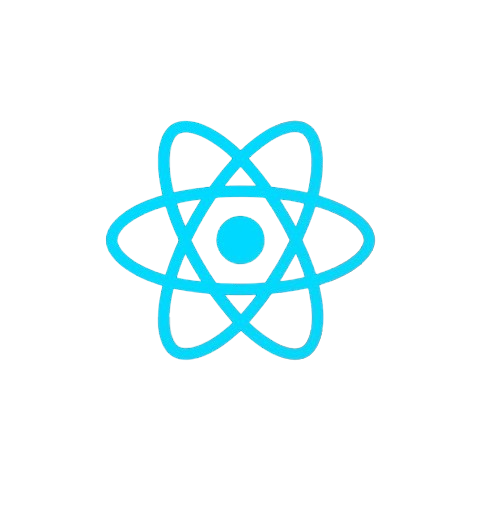
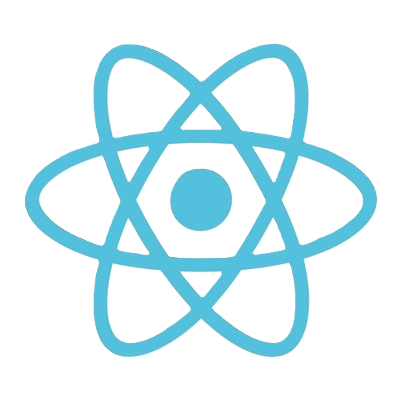
Update Home-Hero Section -- Responsive for mobile

Changed region(s): [[0.06, 0.09, 0.96, 0.9]]

diff --git a/src/components/MyComponent/home-hero.tsx b/src/components/MyComponent/home-hero.tsx
@@ -32,25 +32,25 @@ const HomeHero = () => {
 	return (
 		<>
 			<div className="md:min-h-screen lg:pl-28 flex items-end md:items-center justify-center py-6">
-				<div className="md:h-full flex flex-col items-center md:items-start justify-center">
+				<div className="md:h-full flex flex-col items-center md:items-start justify-end md:justify-center">
 					<h1
-						className={`${russo_one.className} text-[5vmin] lg:text-[7vmin] leading-20`}
+						className={`${russo_one.className} text-[5vmin] lg:text-[7vmin] leading-8`}
 					>
 						Hi, <span className="text-red-800">I Am</span>
 					</h1>
 					<h1
-						className={`${russo_one.className} text-[9vmin] lg:text-[9vmin] leading-[7vmin] 
+						className={`${russo_one.className} text-[9vmin] lg:text-[9vmin] leading-[7.5vmin] 
               bg-gradient-to-r from-purple-700 to-red-700 bg-clip-text text-transparent text-center md:text-start`}
 					>
 						YASH KUMAR HALDER
 					</h1>
 					<h1
-						className={`${russo_one.className} text-[4vmin] lg:text-[4vmin] text-muted-foreground leading-[4vmin] `}
+						className={`${russo_one.className} text-[4vmin] lg:text-[4vmin] text-muted-foreground leading-[4vmin] mt-3 md:mt-0 `}
 					>
 						Full Stack Developer || MERN Stack
 					</h1>
-					<div className="w-[50%] h-12 mt-4 rounded-sm flex items-center justify-around">
-						<div className="flex items-center gap-1 bg-gray-600/20 border border-transparent hover:border-gray-500 px-4 py-2 rounded-sm hover:scale-105 cursor-pointer transition-all duration-150">
+					<div className="w-[90%] md:w-[50%] h-12 md:mt-4 rounded-sm flex items-center justify-center md:justify-around gap-2 md:gap-3 ">
+						<div className="flex items-center gap-1 bg-gray-600/20 border border-transparent hover:border-gray-500 px-3 md:px-4 py-0.5 md:py-2 rounded-sm hover:scale-105 cursor-pointer transition-all duration-150">
 							<svg
 								xmlns="http://www.w3.org/2000/svg"
 								x="0px"
@@ -58,6 +58,7 @@ const HomeHero = () => {
 								width="30"
 								height="30"
 								viewBox="0 0 48 48"
+								className="h-5 w-fit md:h-6"
 							>
 								<path
 									fill="#0078d4"
@@ -76,9 +77,11 @@ const HomeHero = () => {
 									d="M12,19h5v17h-5V19z M14.485,17h-0.028C12.965,17,12,15.888,12,14.499C12,13.08,12.995,12,14.514,12	c1.521,0,2.458,1.08,2.486,2.499C17,15.887,16.035,17,14.485,17z M36,36h-5v-9.099c0-2.198-1.225-3.698-3.192-3.698	c-1.501,0-2.313,1.012-2.707,1.99C24.957,25.543,25,26.511,25,27v9h-5V19h5v2.616C25.721,20.5,26.85,19,29.738,19	c3.578,0,6.261,2.25,6.261,7.274L36,36L36,36z"
 								></path>
 							</svg>
-							<h3>LINKEDIN</h3>
+							<h3 className="text-[10px] md:text-base">
+								LINKEDIN
+							</h3>
 						</div>
-						<div className="flex items-center gap-1 bg-gray-600/20 border border-transparent hover:border-gray-500 px-4 py-2 rounded-sm hover:scale-105 cursor-pointer transition-all duration-150">
+						<div className="flex items-center gap-1 bg-gray-600/20 border border-transparent hover:border-gray-500 px-3 md:px-4 py-0.5 md:py-2 rounded-sm hover:scale-105 cursor-pointer transition-all duration-150">
 							<svg
 								xmlns="http://www.w3.org/2000/svg"
 								x="0px"
@@ -86,19 +89,19 @@ const HomeHero = () => {
 								width="30"
 								height="30"
 								viewBox="0 0 64 64"
-								className=" dark:fill-white"
+								className=" dark:fill-white h-5 md:h-6 w-fit"
 							>
 								<path d="M32 6C17.641 6 6 17.641 6 32c0 12.277 8.512 22.56 19.955 25.286-.592-.141-1.179-.299-1.755-.479V50.85c0 0-.975.325-2.275.325-3.637 0-5.148-3.245-5.525-4.875-.229-.993-.827-1.934-1.469-2.509-.767-.684-1.126-.686-1.131-.92-.01-.491.658-.471.975-.471 1.625 0 2.857 1.729 3.429 2.623 1.417 2.207 2.938 2.577 3.721 2.577.975 0 1.817-.146 2.397-.426.268-1.888 1.108-3.57 2.478-4.774-6.097-1.219-10.4-4.716-10.4-10.4 0-2.928 1.175-5.619 3.133-7.792C19.333 23.641 19 22.494 19 20.625c0-1.235.086-2.751.65-4.225 0 0 3.708.026 7.205 3.338C28.469 19.268 30.196 19 32 19s3.531.268 5.145.738c3.497-3.312 7.205-3.338 7.205-3.338.567 1.474.65 2.99.65 4.225 0 2.015-.268 3.19-.432 3.697C46.466 26.475 47.6 29.124 47.6 32c0 5.684-4.303 9.181-10.4 10.4 1.628 1.43 2.6 3.513 2.6 5.85v8.557c-.576.181-1.162.338-1.755.479C49.488 54.56 58 44.277 58 32 58 17.641 46.359 6 32 6zM33.813 57.93C33.214 57.972 32.61 58 32 58 32.61 58 33.213 57.971 33.813 57.93zM37.786 57.346c-1.164.265-2.357.451-3.575.554C35.429 57.797 36.622 57.61 37.786 57.346zM32 58c-.61 0-1.214-.028-1.813-.07C30.787 57.971 31.39 58 32 58zM29.788 57.9c-1.217-.103-2.411-.289-3.574-.554C27.378 57.61 28.571 57.797 29.788 57.9z"></path>
 							</svg>
-							<h3>GITHUB</h3>
+							<h3 className="text-[10px] md:text-base">GITHUB</h3>
 						</div>
-						<div className="flex items-center gap-1 bg-gray-600/20 border border-transparent hover:border-gray-500 px-4 py-2 rounded-sm hover:scale-105 cursor-pointer transition-all duration-150">
+						<div className="flex items-center gap-1 md:gap-3 bg-gray-600/20 border border-transparent hover:border-gray-500 px-3 md:px-4 py-1 md:py-2 rounded-sm hover:scale-105 cursor-pointer transition-all duration-150">
 							<svg
 								xmlns="http://www.w3.org/2000/svg"
 								enableBackground="new 0 0 24 24"
 								viewBox="0 0 24 24"
 								id="leetcode"
-								className="w-[27px] "
+								className="h-4 w-fit md:h-6 "
 							>
 								<path
 									fill="#B3B1B0"
@@ -133,10 +136,12 @@ const HomeHero = () => {
 									d="M14.432,0c-0.01,0-0.021,0-0.031,0c-0.189,0.004-0.379,0.049-0.562,0.132c-0.178,0.081-0.349,0.2-0.504,0.356c-3.208,3.214-6.416,6.43-9.623,9.644c-0.31,0.31-0.604,0.634-0.839,1.004c-0.652,1.025-0.966,2.151-0.954,3.262h2.818c-0.026-0.753,0.248-1.506,0.827-2.102c1.402-1.442,2.842-2.849,4.265-4.272c0.111-0.119,0.261-0.189,0.372-0.305c0.849-0.889,1.737-1.742,2.6-2.619c0.083-0.084,0.177-0.159,0.221-0.273c0.002-0.005,0.003-0.009,0.005-0.014c0.77-0.775,1.54-1.549,2.31-2.325c0.604-0.61,0.637-1.503,0.077-2.065C15.133,0.14,14.786,0,14.432,0L14.432,0z"
 								></path>
 							</svg>
-							<h3>LEETCODE</h3>
+							<h3 className="text-[10px] md:text-base">
+								LEETCODE
+							</h3>
 						</div>
 					</div>
-					<div className="absolute w-[50vw] h-screen -top-10 left-[59%] rotate-20 ">
+					{/* <div className="absolute w-[50vw] h-screen -top-10 left-[59%] rotate-20 ">
 						<svg
 							viewBox="0 0 600 800"
 							fill="none"
@@ -217,18 +222,19 @@ const HomeHero = () => {
 								}}
 							/>
 						</svg>
-					</div>
+					</div> */}
 				</div>
 			</div>
-			<div className="md:min-h-screen flex items-start md:items-center justify-center py-6">
-				<div className="w-120 p-16 px-24 grid grid-cols-2 gap-3 group">
-					<div className="relative bg-gray-200 dark:bg-gray-900 rounded-sm group-hover:rounded-sm rounded-br-4xl cursor-pointer border border-transparent hover:border-teal-500 dark:hover:border-gray-800 transition-all duration-300 group-hover:-rotate-2 group-hover:-translate-x-3 group-hover:-translate-y-3 hover:scale-110">
-						<div className="w-32 aspect-square flex items-center justify-center ">
-							<FaReact
-								size={90}
-								className="animate-spin animation-duration-[10s] fill-cyan-400"
-							/>
-						</div>
+			<div className="h-[30vh] md:min-h-screen flex items-start md:items-center justify-center py-6">
+				<div className="w-{20%] p-10 md:p-[30%] aspect-auto grid grid-cols-2 gap-3 group">
+					<div className="relative aspect-square bg-gray-200 dark:bg-gray-900 rounded-sm group-hover:rounded-sm rounded-br-4xl cursor-pointer border border-transparent hover:border-teal-500 dark:hover:border-gray-800 transition-all duration-300 group-hover:-rotate-2 group-hover:-translate-x-3 group-hover:-translate-y-3 hover:scale-110">
+						<Image
+							src="/react.png"
+							width="300"
+							height="300"
+							alt="Image"
+							className="w-32"
+						/>
 						<span className="w-full h-6 absolute bottom-0 text-center left-1/2 transform -translate-x-1/2 translate-y-2 opacity-0 transition-all duration-300 group-hover:opacity-100 group-hover:translate-y-0 text-sm font-semibold bg-gradient-to-t from-black/30 to-transparent">
 							React JS
 						</span>
